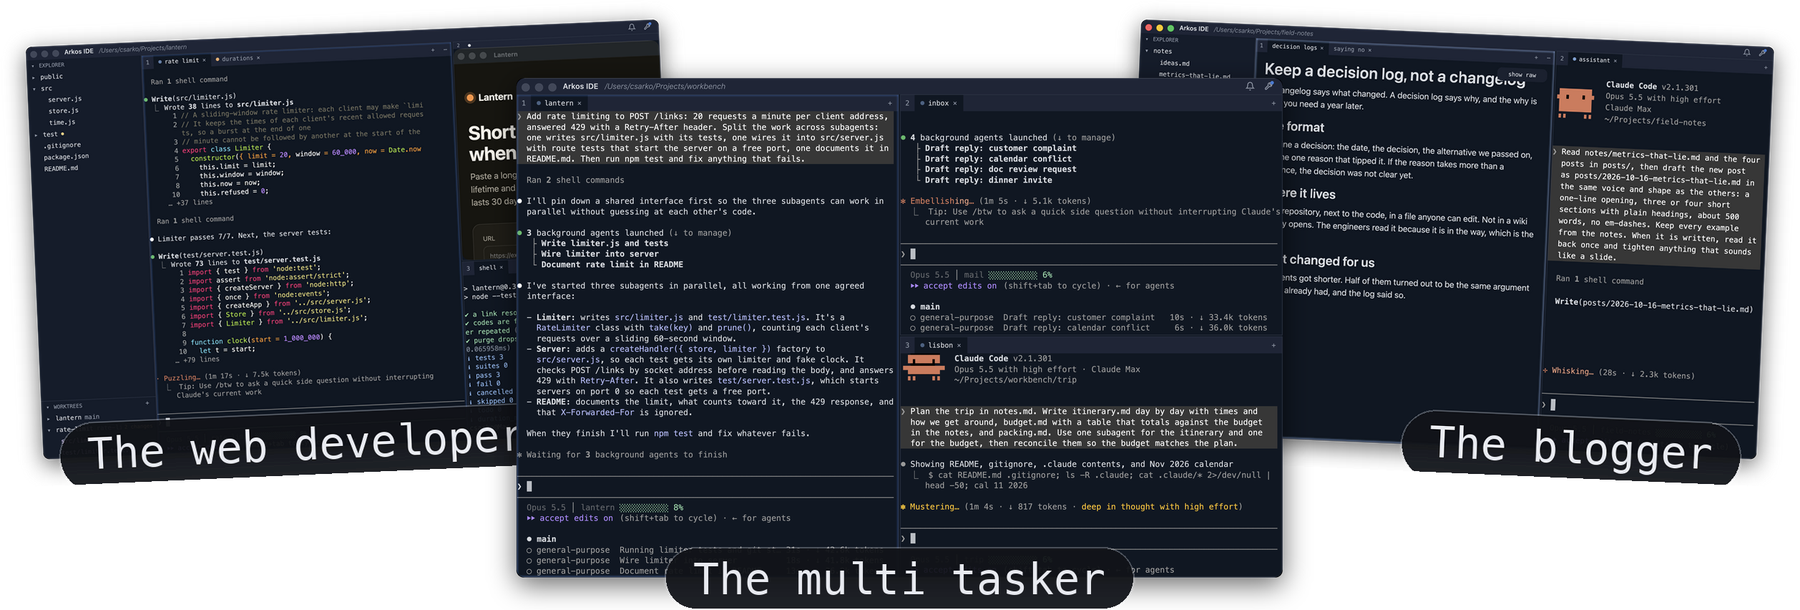
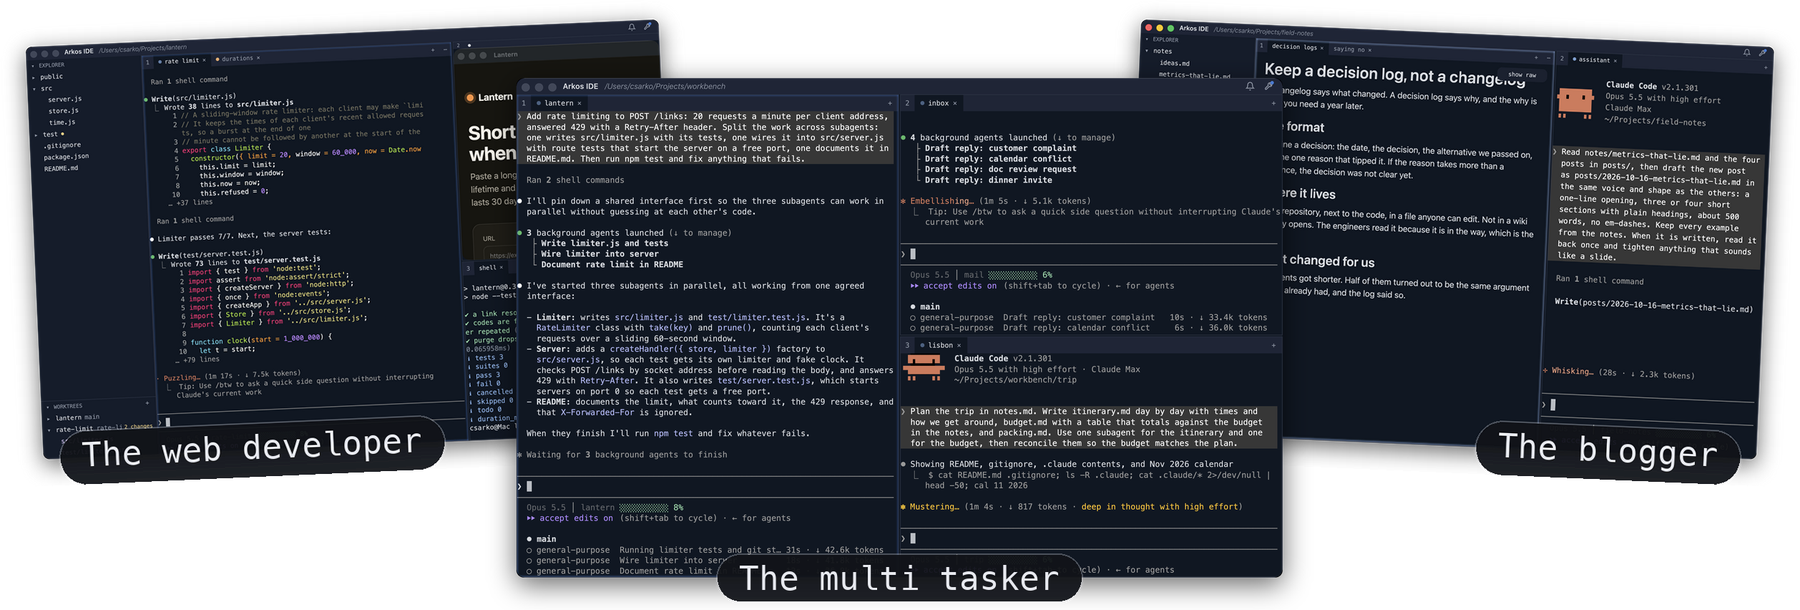
frame.py: the hero's captions a quarter smaller

Changed region(s): [[0.3733, 0.8721, 0.6533, 1.0], [0.0311, 0.6541, 0.3111, 0.7787], [0.7778, 0.6541, 0.9644, 0.7787]]

diff --git a/scripts/shoot/frame.py b/scripts/shoot/frame.py
@@ -48,10 +48,10 @@ def framed(window):
 
 CAPTION_FONT = "/System/Library/Fonts/Menlo.ttc"
 # Sized for the README: GitHub shows the picture about 830 px wide, a third of its canvas, so
-# a 60 px caption reads at about 20 px there, and the longest ("The web developer") fits the
+# a 46 px caption reads at about 15 px there, and the longest ("The web developer") fits the
 # part of its still the front one leaves showing.
-CAPTION_SIZE = 30 * SCALE
-CAPTION_PAD = (20 * SCALE, 10 * SCALE)
+CAPTION_SIZE = 23 * SCALE
+CAPTION_PAD = (16 * SCALE, 8 * SCALE)
 CANVAS_W = 1260 * SCALE
 OUT_W = 1800
 
